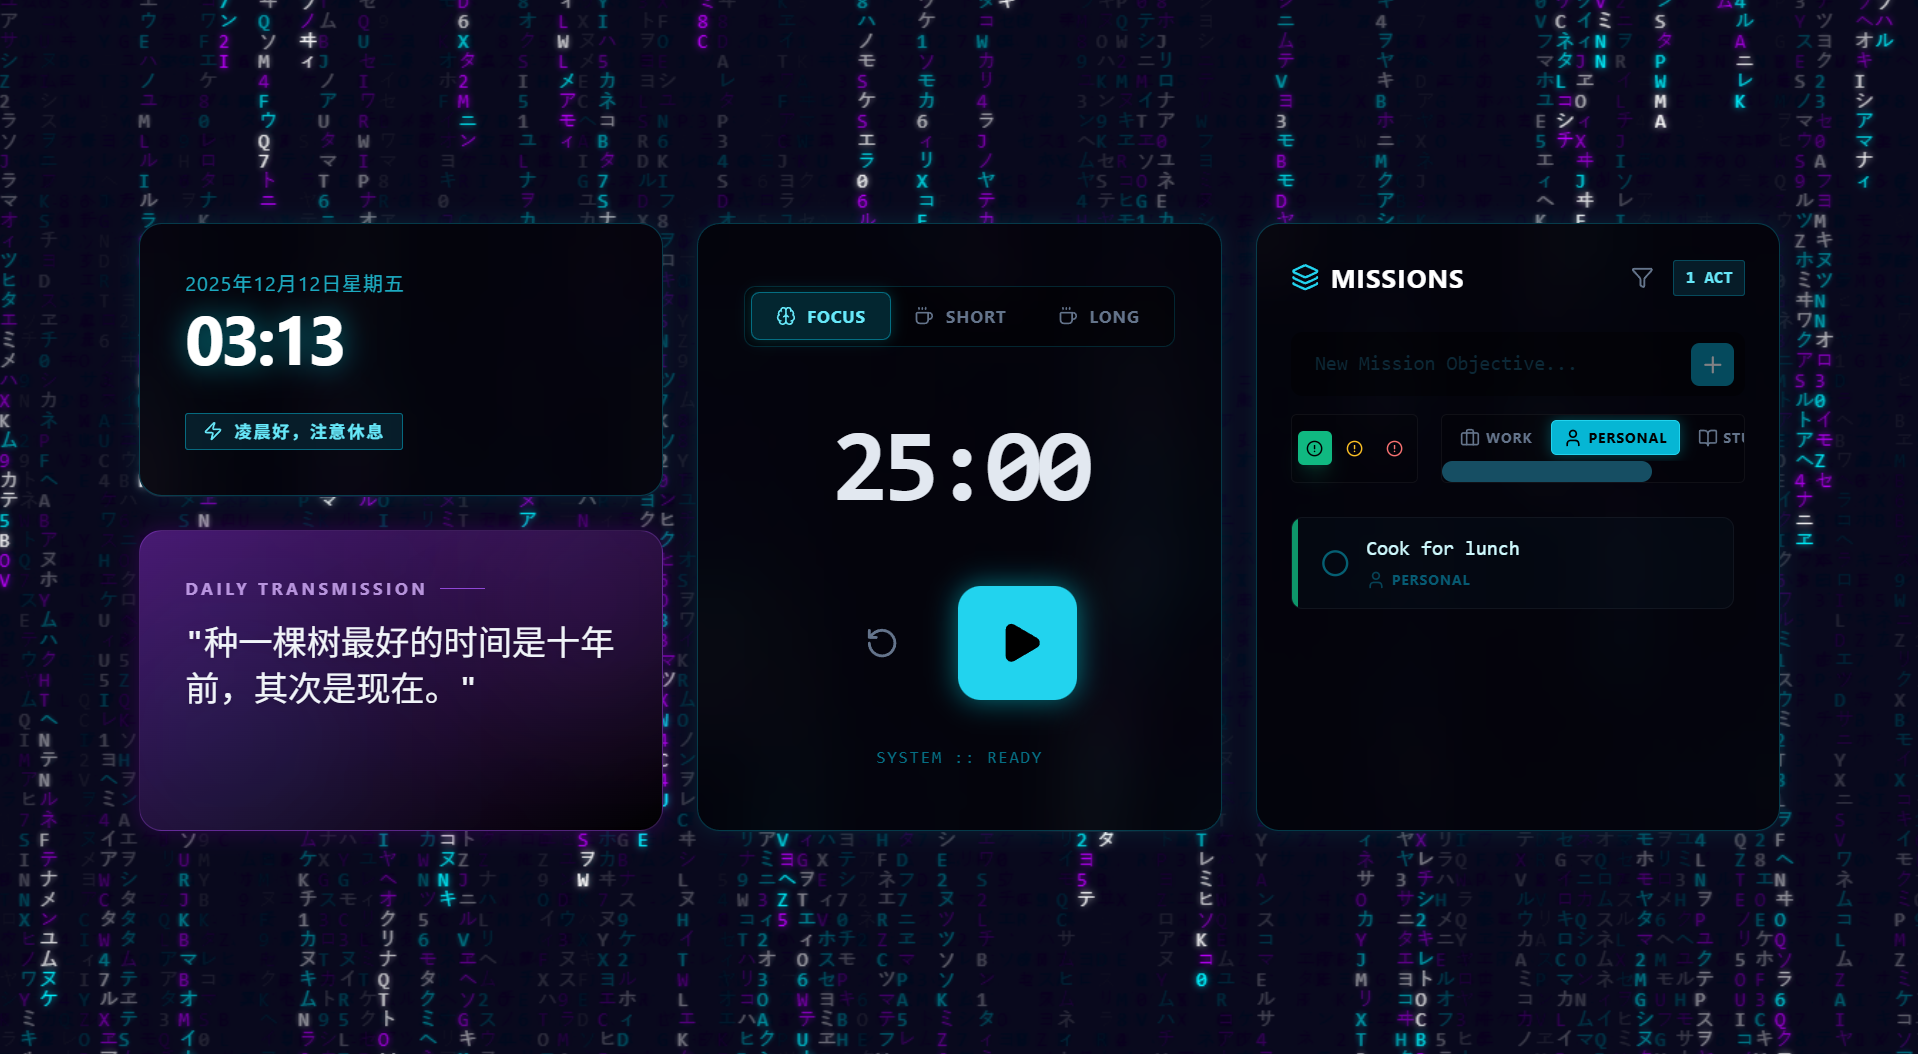
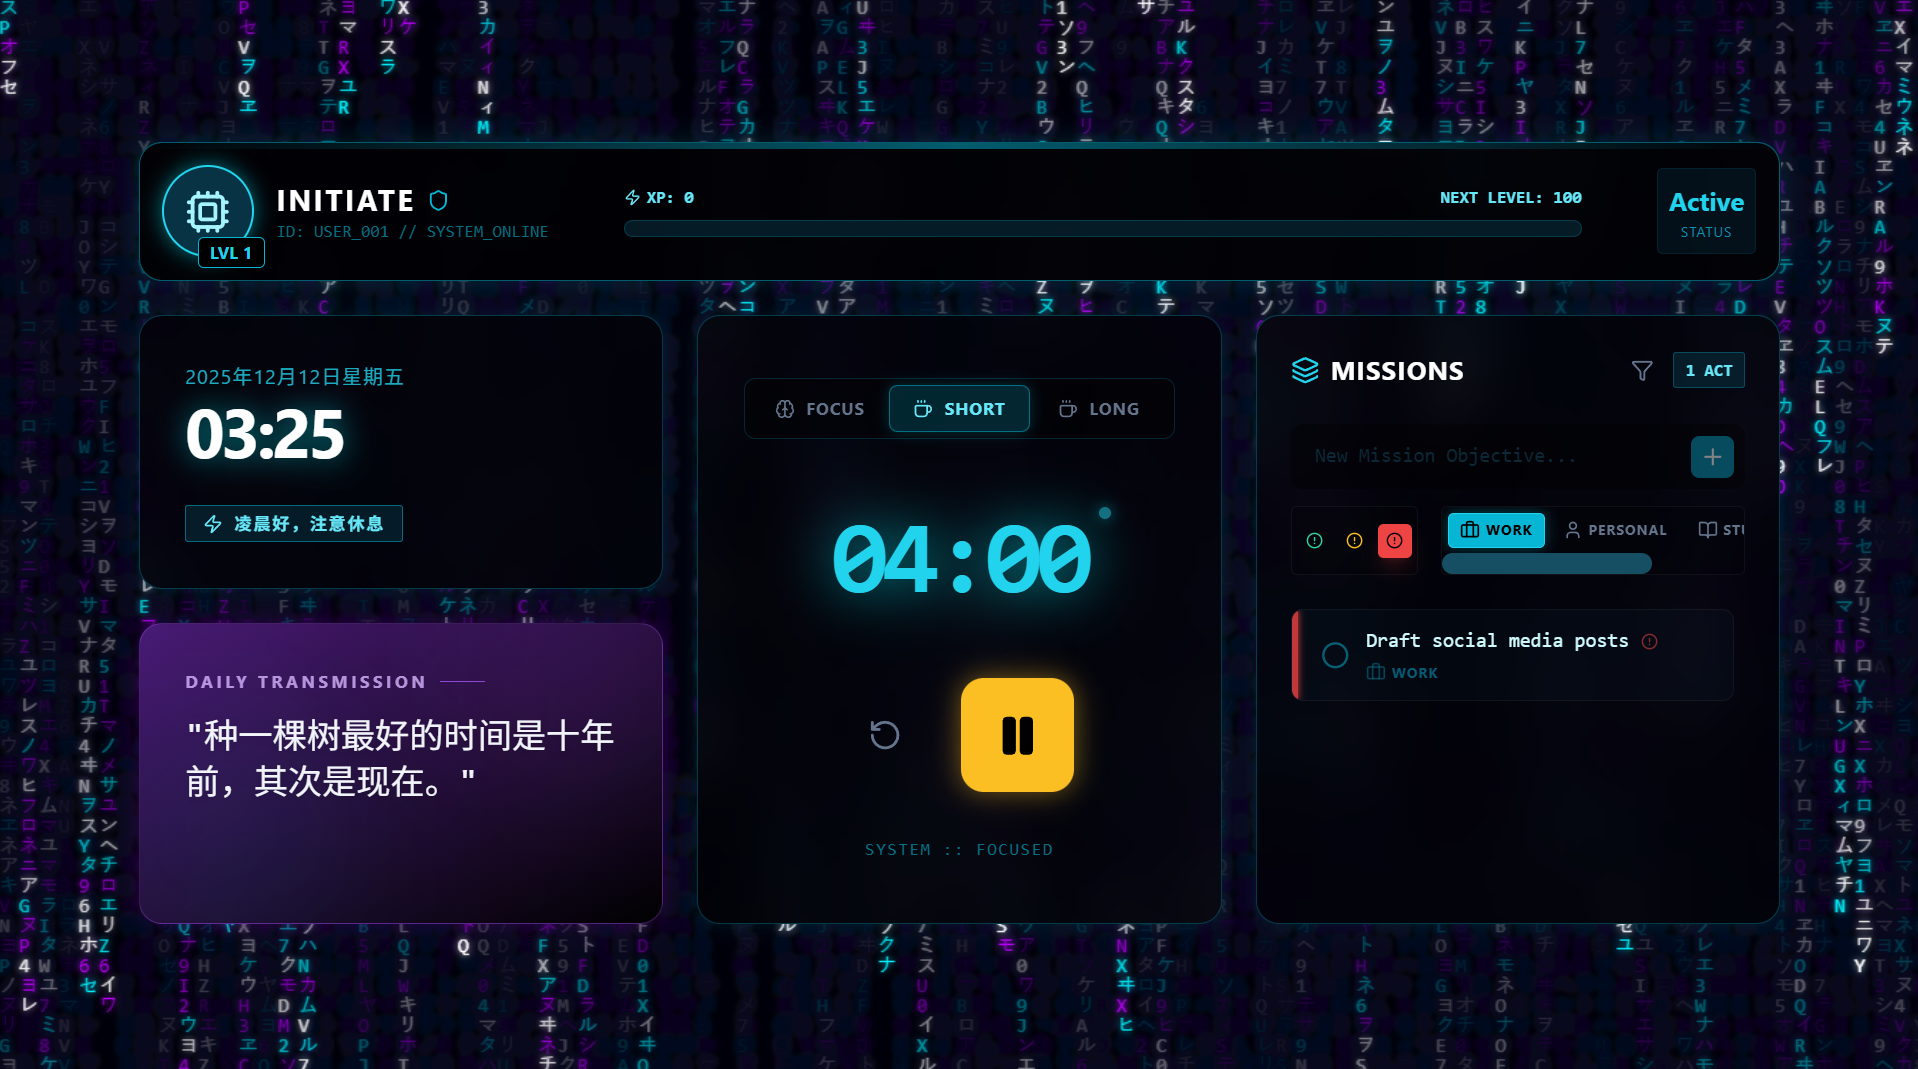
feat: Implement core gamified pomodoro timer application with XP, levels, and player HUD.

diff --git a/src/components/PlayerHud.jsx b/src/components/PlayerHud.jsx
@@ -1,0 +1,56 @@
+import React from 'react';
+import { Shield, Zap, TrendingUp, Cpu } from 'lucide-react';
+
+export default function PlayerHud({ level, rank, xp, nextLevelXP, progress }) {
+  return (
+    <div className="lg:col-span-12 bg-black/80 backdrop-blur-xl rounded-2xl p-4 shadow-[0_0_20px_rgba(0,243,255,0.15)] border border-cyan-500/50 flex flex-col md:flex-row items-center justify-between gap-6 relative overflow-hidden">
+      
+      {/* Decorative Scan Line */}
+      <div className="absolute top-0 left-0 w-full h-1 bg-gradient-to-r from-transparent via-cyan-500 to-transparent opacity-50 animate-pulse"></div>
+
+      {/* Avatar / Level Info */}
+      <div className="flex items-center gap-4 z-10">
+        <div className="relative">
+          <div className="w-16 h-16 rounded-full bg-cyan-950 flex items-center justify-center border-2 border-cyan-400 shadow-[0_0_15px_rgba(0,243,255,0.5)]">
+            <Cpu size={32} className="text-cyan-200" />
+          </div>
+          <div className="absolute -bottom-2 -right-2 bg-black text-cyan-400 text-xs font-bold px-2 py-0.5 rounded border border-cyan-500">
+            LVL {level}
+          </div>
+        </div>
+        <div>
+          <h2 className="text-xl font-bold text-white uppercase tracking-widest flex items-center gap-2">
+            {rank}
+            <Shield size={16} className="text-cyan-500" />
+          </h2>
+          <p className="text-cyan-500/60 text-xs font-mono">ID: USER_001 // SYSTEM_ONLINE</p>
+        </div>
+      </div>
+
+      {/* XP Progress */}
+      <div className="flex-1 w-full max-w-2xl flex flex-col gap-2 z-10">
+        <div className="flex justify-between text-xs font-bold font-mono text-cyan-300">
+          <span className="flex items-center gap-1"><Zap size={12} /> XP: {xp}</span>
+          <span>NEXT LEVEL: {nextLevelXP}</span>
+        </div>
+        <div className="w-full h-3 bg-cyan-950/50 rounded-full overflow-hidden border border-cyan-500/20 relative">
+          <div 
+            className="h-full bg-gradient-to-r from-cyan-600 to-cyan-400 shadow-[0_0_10px_rgba(0,243,255,0.5)] transition-all duration-1000 ease-out"
+            style={{ width: `${progress}%` }}
+          ></div>
+          {/* Glitch overlay */}
+          <div className="absolute inset-0 bg-white/5 opacity-0 hover:opacity-100 transition-opacity"></div>
+        </div>
+      </div>
+
+      {/* Stats (Placeholder for streaks/etc later) */}
+      <div className="hidden md:flex gap-4 text-center z-10">
+        <div className="bg-cyan-950/30 p-2 rounded border border-cyan-500/10">
+           <div className="text-cyan-400 font-bold text-lg">Active</div>
+           <div className="text-[10px] text-cyan-600 uppercase tracking-wider">Status</div>
+        </div>
+      </div>
+      
+    </div>
+  );
+}

diff --git a/src/App.jsx b/src/App.jsx
@@ -3,14 +3,18 @@ import CyberpunkBackground from './components/CyberpunkBackground';
 import { useTime } from './hooks/useTime';
 import { useTodos } from './hooks/useTodos';
 import { useTimer } from './hooks/useTimer';
+import { useGamification } from './hooks/useGamification';
 import ClockCard from './components/ClockCard';
 import QuoteCard from './components/QuoteCard';
 import PomodoroTimer from './components/PomodoroTimer';
 import TodoList from './components/TodoList';
+import PlayerHud from './components/PlayerHud';
 
 export default function App() {
   const { currentTime, getGreeting } = useTime();
   const { todos, addTodo, toggleTodo, deleteTodo } = useTodos();
+  const { xp, level, rank, nextLevelXP, progress, addXP } = useGamification();
+
   const { 
     timeLeft, 
     isActive, 
@@ -18,7 +22,7 @@ export default function App() {
     switchTimerMode, 
     toggleTimer, 
     resetTimer 
-  } = useTimer();
+  } = useTimer(() => addXP(100));
 
   return (
     <div className="min-h-screen text-cyan-50 font-sans selection:bg-cyan-500/30 selection:text-cyan-100 flex items-center justify-center p-4 md:p-8 relative overflow-hidden">
@@ -32,6 +36,15 @@ export default function App() {
       {/* Main Content */}
       <div className="w-full max-w-6xl grid grid-cols-1 lg:grid-cols-12 gap-6 relative z-10">
         
+        {/* HUD - Full Width */}
+        <PlayerHud 
+          level={level} 
+          rank={rank} 
+          xp={xp} 
+          nextLevelXP={nextLevelXP} 
+          progress={progress} 
+        />
+
         {/* Left Column: Time & Quotes */}
         <div className="lg:col-span-4 flex flex-col gap-6">
           <ClockCard currentTime={currentTime} greeting={getGreeting()} />
@@ -47,6 +60,7 @@ export default function App() {
             switchTimerMode={switchTimerMode}
             toggleTimer={toggleTimer}
             resetTimer={resetTimer}
+            onComplete={() => addXP(100)} // Award 100 XP for timer
           />
         </div>
 
@@ -57,6 +71,7 @@ export default function App() {
             addTodo={addTodo}
             toggleTodo={toggleTodo}
             deleteTodo={deleteTodo}
+            onTaskComplete={(amount) => addXP(amount || 10)} // Award 10 XP per task
           />
         </div>
 

diff --git a/src/hooks/useGamification.js b/src/hooks/useGamification.js
@@ -1,0 +1,59 @@
+import { useState, useEffect } from 'react';
+
+const LEVEL_THRESHOLDS = [
+  0, 100, 300, 600, 1000, 1500, 2100, 2800, 3600, 4500, 5500, 7000, 9000, 12000
+];
+
+const RANKS = [
+  'Initiate',
+  'Script Kiddie',
+  'Glitch Hunter',
+  'Netrunner',
+  'Cyber-Samurai',
+  'System Operator',
+  'Grid Walker',
+  'Data Shadow',
+  'Neon Ghost',
+  'Construct',
+  'AI Architect',
+  'Cyber-Deity'
+];
+
+export function useGamification() {
+  const [xp, setXP] = useState(() => {
+    try {
+      return parseInt(localStorage.getItem('focusflow_xp') || '0');
+    } catch { return 0; }
+  });
+
+  useEffect(() => {
+    localStorage.setItem('focusflow_xp', xp.toString());
+  }, [xp]);
+
+  // Derived State (No need for separate state variables that cause re-renders)
+  let level = 1;
+  for (let i = 0; i < LEVEL_THRESHOLDS.length; i++) {
+      if (xp >= LEVEL_THRESHOLDS[i]) {
+          level = i + 1;
+      } else {
+          break;
+      }
+  }
+
+  const rankIndex = Math.min(Math.floor((level - 1) / 2), RANKS.length - 1);
+  const rank = RANKS[rankIndex];
+
+  const currentLevelBase = LEVEL_THRESHOLDS[level - 1] || 0;
+  const nextLevel = LEVEL_THRESHOLDS[level] || currentLevelBase * 1.5;
+  const nextLevelXP = nextLevel;
+  
+  const xpInLevel = xp - currentLevelBase;
+  const xpRequired = nextLevel - currentLevelBase;
+  const progress = Math.min(100, Math.max(0, (xpInLevel / xpRequired) * 100));
+
+  const addXP = (amount) => {
+    setXP(prev => prev + amount);
+  };
+
+  return { xp, level, rank, nextLevelXP, progress, addXP };
+}

diff --git a/src/hooks/useTimer.js b/src/hooks/useTimer.js
@@ -1,6 +1,6 @@
 import { useState, useEffect } from 'react';
 
-export function useTimer() {
+export function useTimer(onComplete) {
   const [timeLeft, setTimeLeft] = useState(25 * 60);
   const [isActive, setIsActive] = useState(false);
   const [timerMode, setTimerMode] = useState('focus'); // 'focus', 'short', 'long'
@@ -12,6 +12,7 @@ export function useTimer() {
         setTimeLeft((prev) => {
           if (prev <= 1) {
             setIsActive(false);
+            if (onComplete) onComplete();
             return 0;
           }
           return prev - 1;
